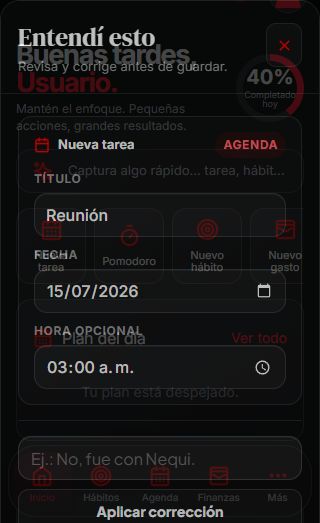
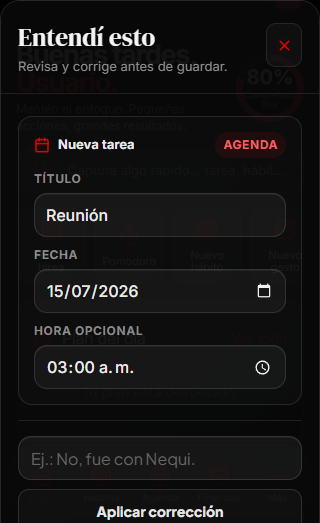
Corrige campos de captura en móvil

diff --git a/mobile-v2.css b/mobile-v2.css
@@ -104,8 +104,10 @@ html[data-theme-mode="pinkLight"]{--m2-bg:#fff7fa;--m2-bg-elevated:#fff;--m2-sur
   .m2-finance-mini .m2-budget-summary{padding-bottom:0}
   .voice-assistant-backdrop{background:rgba(0,0,0,.92);backdrop-filter:none}
   .voice-assistant{position:relative;z-index:1;background:#080808!important;isolation:isolate;contain:paint}
-  .voice-assistant,.voice-assistant-body,.voice-draft-list,.voice-draft-card,.voice-field-grid,.voice-field{width:100%;max-width:100%;min-width:0}
-  .voice-field-grid>*{min-width:0;max-width:100%}
+  .voice-assistant,.voice-assistant-body,.voice-draft-list,.voice-draft-card,.voice-field-grid,.voice-field{max-width:100%;min-width:0;box-sizing:border-box}
+  .voice-assistant,.voice-assistant-body,.voice-draft-list,.voice-draft-card,.voice-field-grid{width:100%}
+  .voice-field{width:auto}
+  .voice-field-grid>*{min-width:0;max-width:100%;box-sizing:border-box}
   .voice-field input,.voice-field select{display:block;width:100%;max-width:100%;min-width:0;box-sizing:border-box}
 }
 @media(max-width:767px){

diff --git a/HabitTrackerApp.jsx b/HabitTrackerApp.jsx
@@ -258,7 +258,7 @@ const persistBrushingStorage = (state) => {
   } catch {}
 };
 
-const APP_UPDATE_VERSION = '2026-07-14-mobile-home-polish-v4';
+const APP_UPDATE_VERSION = '2026-07-14-mobile-capture-layout-v5';
 const APP_UPDATE_NOTES = [
   'Pomodoro ya no falla al terminar una sesión y ahora avisa al finalizar enfoque, descanso y descanso largo.',
   'Finanzas ahora usa un switch global USD/COP para mantener la vista limpia.',

diff --git a/index.html b/index.html
@@ -19,7 +19,7 @@
   <link rel="apple-touch-icon" href="./apple-touch-icon-20260603.png">
   <link rel="apple-touch-icon" sizes="180x180" href="./apple-touch-icon-20260603.png">
   <link rel="manifest" href="./manifest.webmanifest">
-  <link rel="stylesheet" href="./mobile-v2.css?v=[phone redacted]-mobile-home-polish-v4">
+  <link rel="stylesheet" href="./mobile-v2.css?v=[phone redacted]-mobile-capture-layout-v5">
   <link rel="preconnect" href="https://fonts.googleapis.com">
   <link rel="preconnect" href="https://fonts.gstatic.com" crossorigin>
   <link href="https://fonts.googleapis.com/css2?family=DM+Serif+Display&family=Plus+Jakarta+Sans:wght@400;500;600;700;800&display=swap" rel="stylesheet">

diff --git a/sw.js b/sw.js
@@ -1,4 +1,4 @@
-const CACHE_VERSION = 'habitflow-pwa-v2026-07-14-mobile-home-polish-v4';
+const CACHE_VERSION = 'habitflow-pwa-v2026-07-14-mobile-capture-layout-v5';
 const APP_SHELL = [
   './',
   './index.html',

diff --git a/docs/FUNCTIONAL_AUDIT.md b/docs/FUNCTIONAL_AUDIT.md
@@ -156,3 +156,4 @@ No se añadió un segundo store ni datos mock para ocultar estados vacíos. Las 
 - Racha: animación `m2-streak-flame` de 2.3 segundos, leve traslación/rotación/escala y alternativa sin movimiento mediante `prefers-reduced-motion`.
 - Accesos rápidos: una sola fila compacta; Nueva tarea y Nuevo hábito abren formularios reales, Pomodoro navega a su sección y Nuevo gasto abre Wallet/Agregar con Gasto seleccionado.
 - Evidencias y recorridos: `scripts/capture-home-polish.cjs` y `test-results/home-polish-fixes/` en 320, 360, 390, 430, 768, 820 y desktop 1440.
+- Corrección V5: el desbordamiento de Fecha/Hora provenía de aplicar `width: 100%` con `box-sizing: content-box` a `voice-assistant-body`, `voice-draft-card` y los hijos del grid. Todos los contenedores relevantes usan ahora `border-box`; cada campo usa ancho automático dentro de su track y los inputs permanecen dentro de los límites del grid y la tarjeta en 320–820 px.